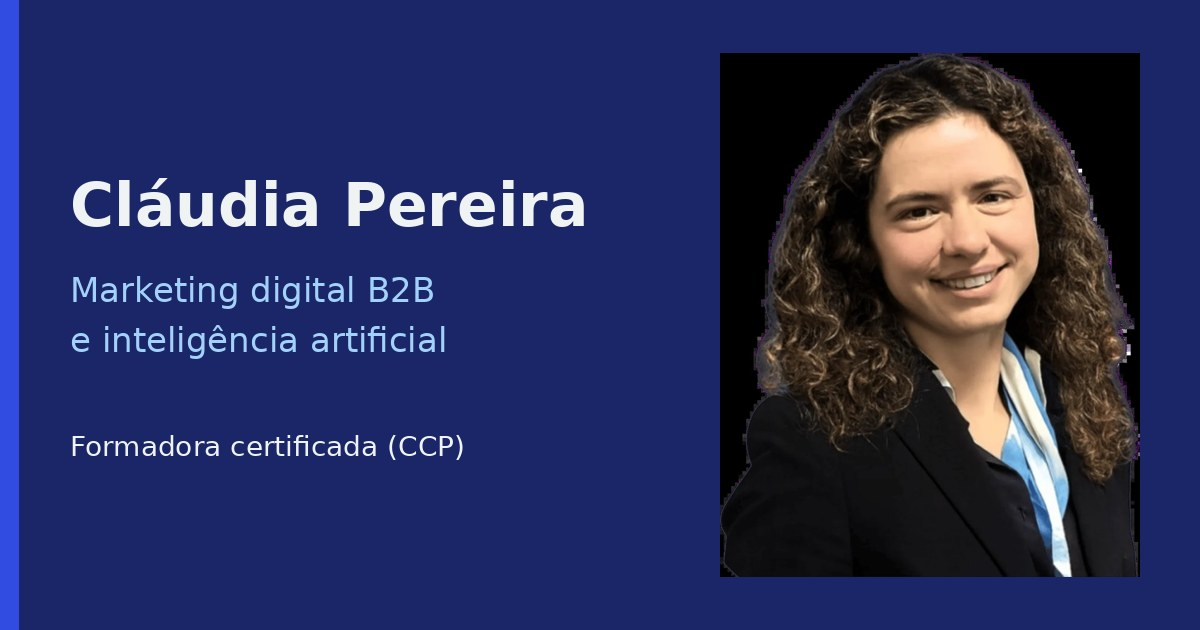
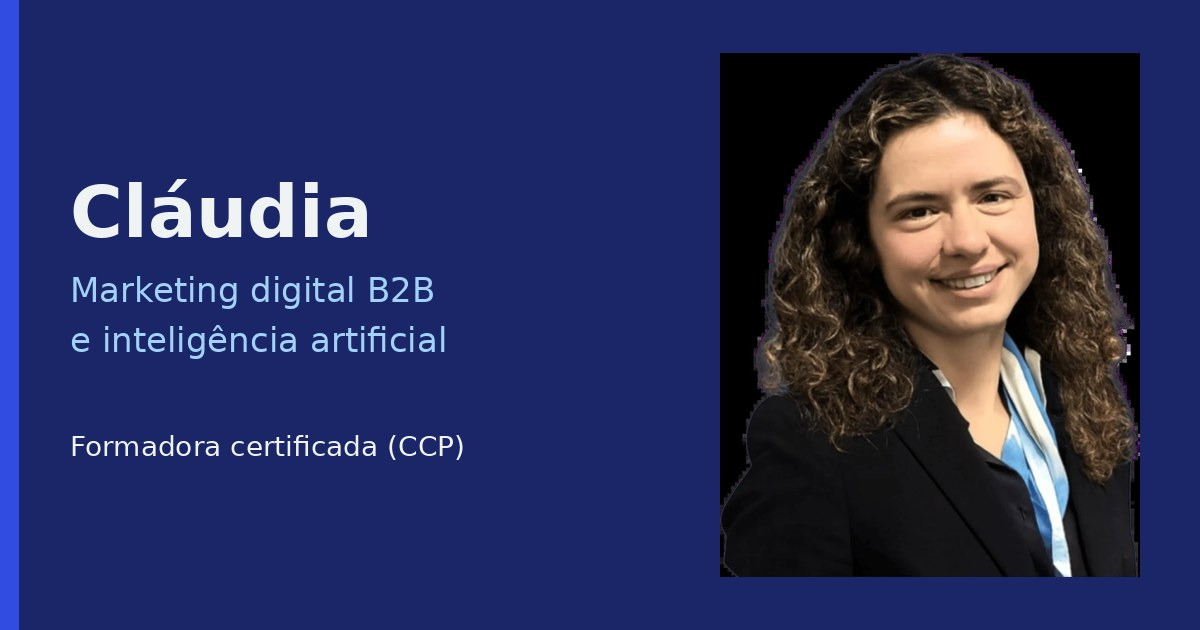
anonimizada

Changed region(s): [[0.0617, 0.2714, 0.4933, 0.3921]]

diff --git a/sobre-mim.html b/sobre-mim.html
@@ -3,21 +3,21 @@
 <head>
 <meta charset="utf-8">
 <meta name="viewport" content="width=device-width, initial-scale=1">
-<title>Sobre Cláudia Pereira</title>
-<meta name="description" content="Cláudia Pereira: do jornalismo ao marketing digital B2B e à formação. Mestre em Comunicação e Jornalismo, MBA em Marketing Digital e formadora certificada (CCP) em inteligência artificial aplicada ao marketing.">
+<title>Sobre Cláudia</title>
+<meta name="description" content="Cláudia: do jornalismo ao marketing digital B2B e à formação. Mestre em Comunicação e Jornalismo, MBA em Marketing Digital e formadora certificada (CCP) em inteligência artificial aplicada ao marketing.">
 <meta property="og:type" content="profile">
 <meta property="og:locale" content="pt_PT">
-<meta property="og:title" content="Sobre Cláudia Pereira">
+<meta property="og:title" content="Sobre Cláudia">
 <meta property="og:description" content="Do jornalismo ao marketing digital B2B e à formação em inteligência artificial.">
 <link rel="canonical" href="https://claudiathemarketeer.netlify.app/sobre-mim.html">
 <meta name="robots" content="index,follow,max-image-preview:large">
-<meta name="author" content="Cláudia Pereira">
+<meta name="author" content="Cláudia">
 <meta property="og:url" content="https://claudiathemarketeer.netlify.app/sobre-mim.html">
-<meta property="og:site_name" content="Cláudia Pereira">
+<meta property="og:site_name" content="Cláudia">
 <meta property="og:image" content="https://claudiathemarketeer.netlify.app/images/og-cover.jpg">
 <meta property="og:image:width" content="1200">
 <meta property="og:image:height" content="630">
-<meta property="og:image:alt" content="Cláudia Pereira, marketing digital B2B e IA">
+<meta property="og:image:alt" content="Cláudia, marketing digital B2B e IA">
 <meta name="twitter:card" content="summary_large_image">
 <meta name="theme-color" content="#1B2668">
 <link rel="alternate" type="text/plain" href="https://claudiathemarketeer.netlify.app/llms.txt" title="llms.txt">
@@ -26,13 +26,13 @@
 <link rel="preconnect" href="https://fonts.gstatic.com" crossorigin>
 <link href="https://fonts.googleapis.com/css2?family=Bricolage+Grotesque:opsz,wght@12..96,400;12..96,500;12..96,700;12..96,800&family=IBM+Plex+Mono:wght@400;500&display=swap" rel="stylesheet">
 <link rel="stylesheet" href="style.css">
-<script type="application/ld+json">{"@context": "https://schema.org", "@graph": [{"@type": "Person", "@id": "https://claudiathemarketeer.netlify.app/#claudia", "name": "Cláudia Pereira", "url": "https://claudiathemarketeer.netlify.app/", "image": "https://claudiathemarketeer.netlify.app/images/claudia-pereira.jpg", "jobTitle": "Especialista em marketing digital B2B e formadora certificada (CCP)", "worksFor": {"@type": "Organization", "name": "UE Systems"}, "address": {"@type": "PostalAddress", "addressLocality": "Ourém", "addressCountry": "PT"}, "knowsLanguage": ["pt", "en"], "description": "Especialista em marketing digital B2B, com foco em marca e performance, formadora de inteligência artificial aplicada ao marketing e colunista de opinião na revista Marketeer.", "sameAs": ["https://marketeer.sapo.pt/colunista/claudia-pereira/"], "knowsAbout": ["Marketing digital B2B", "Comunicação empresarial", "Inteligência artificial aplicada ao marketing"]}, {"@type": "ProfilePage", "@id": "https://claudiathemarketeer.netlify.app/sobre-mim.html#webpage", "url": "https://claudiathemarketeer.netlify.app/sobre-mim.html", "name": "Sobre Cláudia Pereira", "mainEntity": {"@id": "https://claudiathemarketeer.netlify.app/#claudia"}, "inLanguage": "pt-PT"}, {"@type": "BreadcrumbList", "itemListElement": [{"@type": "ListItem", "position": 1, "name": "Início", "item": "https://claudiathemarketeer.netlify.app/"}, {"@type": "ListItem", "position": 2, "name": "Sobre mim", "item": "https://claudiathemarketeer.netlify.app/sobre-mim.html"}]}]}</script>
+<script type="application/ld+json">{"@context": "https://schema.org", "@graph": [{"@type": "Person", "@id": "https://claudiathemarketeer.netlify.app/#claudia", "name": "Cláudia", "url": "https://claudiathemarketeer.netlify.app/", "image": "https://claudiathemarketeer.netlify.app/images/claudia-pereira.jpg", "jobTitle": "Especialista em marketing digital B2B e formadora certificada (CCP)", "worksFor": {"@type": "Organization", "name": "UE Systems"}, "address": {"@type": "PostalAddress", "addressLocality": "Ourém", "addressCountry": "PT"}, "knowsLanguage": ["pt", "en"], "description": "Especialista em marketing digital B2B, com foco em marca e performance, formadora de inteligência artificial aplicada ao marketing e colunista de opinião na revista Marketeer.", "sameAs": ["https://marketeer.sapo.pt/colunista/claudia-pereira/"], "knowsAbout": ["Marketing digital B2B", "Comunicação empresarial", "Inteligência artificial aplicada ao marketing"]}, {"@type": "ProfilePage", "@id": "https://claudiathemarketeer.netlify.app/sobre-mim.html#webpage", "url": "https://claudiathemarketeer.netlify.app/sobre-mim.html", "name": "Sobre Cláudia", "mainEntity": {"@id": "https://claudiathemarketeer.netlify.app/#claudia"}, "inLanguage": "pt-PT"}, {"@type": "BreadcrumbList", "itemListElement": [{"@type": "ListItem", "position": 1, "name": "Início", "item": "https://claudiathemarketeer.netlify.app/"}, {"@type": "ListItem", "position": 2, "name": "Sobre mim", "item": "https://claudiathemarketeer.netlify.app/sobre-mim.html"}]}]}</script>
 </head>
 <body>
 <div class="wrap">
   <header>
     <div class="masthead">
-      <a class="name" href="index.html">Cláudia Pereira</a>
+      <a class="name" href="index.html">Cláudia</a>
       <nav class="nav" aria-label="Secções">
         <a href="index.html#artigos">Artigos</a>
         <a href="index.html#formacao">Formação</a>
@@ -49,16 +49,15 @@
 
   <main id="topo">
     <div class="hero a-hero">
-      <h1>Quem é <mark>Cláudia Pereira</mark>?</h1>
-      <div class="hero-grid">
+      <h1>Quem é <mark>Cláudia</mark>?</h1>
+      <div class="hero-grid" style="grid-template-columns:minmax(0,1fr)">
         <div>
-          <p class="lead">Aprendi a escrever numa redação e a medir resultados em campanhas pagas. Entre os dois mundos, fiz marketing B2B para mercados que vão da Europa ao Sul da Ásia. Hoje levo essa bagagem para a sala de formação, onde a inteligência artificial aplicada ao marketing é o assunto do dia.</p>
+          <p class="lead">Aprendi a escrever numa redação e a medir resultados em campanhas pagas. Entre os dois mundos, fiz marketing B2B para mercados que vão da Europa ao Sul da Ásia.</p>
           <div class="actions">
             <a class="btn" href="index.html#contacto">Falar comigo</a>
             <a class="link" href="#percurso">Ver o percurso</a>
           </div>
         </div>
-        <figure class="portrait"><img src="images/claudia-pereira.webp" alt="Retrato de Cláudia Pereira" width="900" height="1123"></figure>
       </div>
     </div>
 
@@ -114,17 +113,16 @@
         <li>
           <div class="when"><span class="tag">Jornalismo</span><span class="date">2015 a 2019</span></div>
           <div class="what">
-          <p><strong>Licenciatura e mestrado em Comunicação e Jornalismo</strong> na Universidade de Coimbra.</p>
-          <p>Sou <strong>redatora no jornal Ramo d'Além</strong>, onde continuo a escrever. Sou também <strong>colunista de opinião na revista Marketeer</strong>, em temas como marketing, comunicação empresarial e inteligência artificial. Estagiei na <strong>Deutsche Welle</strong> e na <strong>Rádio Canção Nova</strong>, apresentei comunicações em congressos (inter)nacionais e, em paralelo, trabalhei como técnica de relações públicas na universidade.</p>
+          <p>Possuo uma <strong>licenciatura e mestrado em Comunicação e Jornalismo</strong>. Redijo artigos de opinião para jornais e revistas; estagiei na rádio e jornais; apresentei comunicações em congressos (inter)nacionais e, em paralelo, trabalhei como técnica de relações públicas na universidade.</p>
           </div>
         </li>
       </ol>
     </section>
 
     <div class="photostrip" role="group" aria-label="Fotografias">
-      <figure style="--r:1.499"><img src="images/media-relations.webp" alt="Cláudia Pereira a dar uma entrevista a uma equipa de televisão" width="1000" height="667" loading="lazy"></figure>
-      <figure style="--r:1.616"><img src="images/congresso.webp" alt="Cláudia Pereira a apresentar uma comunicação" width="1000" height="619" loading="lazy"></figure>
-      <figure style="--r:1.464"><img src="images/dw-estagio.webp" alt="Cláudia Pereira a entrevistar alguém numa redação" width="789" height="539" loading="lazy"></figure>
+      <figure style="--r:1.499"><img src="images/media-relations.webp" alt="Cláudia a dar uma entrevista a uma equipa de televisão" width="1000" height="667" loading="lazy"></figure>
+      <figure style="--r:1.616"><img src="images/congresso.webp" alt="Cláudia a apresentar uma comunicação" width="1000" height="619" loading="lazy"></figure>
+      <figure style="--r:1.464"><img src="images/dw-estagio.webp" alt="Cláudia a entrevistar alguém numa redação" width="789" height="539" loading="lazy"></figure>
     </div>
 
     <section id="carater">
@@ -132,7 +130,7 @@
         <span class="kicker">Olá! Hello!</span>
         <h2>O que o currículo não diz.</h2>
       </div>
-      <p class="lead-sm">Estudei e trabalhei em Portugal, nos Países Baixos, em Espanha, na Alemanha, em França e na Turquia. Em 2021, a bolsa Young Talent abriu-me as portas a um MBA em inglês em Marketing Digital, numa escola sediada em Espanha.</p>
+      <p class="lead-sm">Estudei e trabalhei em Portugal, nos Países Baixos, na Alemanha, em França e na Turquia. Em 2021, a bolsa Young Talent abriu-me as portas a um MBA em inglês em Marketing Digital, numa escola sediada em Espanha.</p>
       <div class="chapters">
         <article class="chapter">
           <span class="num">01</span>
@@ -241,7 +239,7 @@
       </div>
       <ul class="track" id="art-track" tabindex="0" aria-label="Artigos publicados">
         <li class="card">
-          <div class="cover photo"><span class="pill out">Colunista</span><img src="images/marketeer-colunista.jpg" alt="Cláudia Pereira, colunista de opinião na revista Marketeer" width="480" height="360" loading="lazy"></div>
+          <div class="cover photo"><span class="pill out">Colunista</span><img src="images/marketeer-colunista.jpg" alt="Cláudia, colunista de opinião na revista Marketeer" width="480" height="360" loading="lazy"></div>
           <b><a href="https://marketeer.sapo.pt/colunista/claudia-pereira/">Colunista de opinião na revista Marketeer</a></b>
           <span class="meta">Marketing, comunicação empresarial e inteligência artificial · Mais recente: <a href="https://marketeer.sapo.pt/a-primeira-black-friday-da-ia/">A primeira Black Friday da IA</a> (21 de novembro de 2026) · <a class="read" href="https://marketeer.sapo.pt/colunista/claudia-pereira/">Ver coluna</a></span>
         </li>
@@ -251,7 +249,7 @@
           <span class="meta">APPM, 27 de abril de 2026 · <a class="read" href="https://appm.pt/marketing-loop-publico-alvo/">Ler artigo</a></span>
         </li>
         <li class="card">
-          <div class="cover photo"><span class="pill out">Publicado</span><img src="images/she-shares.jpg" alt="Edição da newsletter She Shares com Cláudia Pereira" width="480" height="360"></div>
+          <div class="cover photo"><span class="pill out">Publicado</span><img src="images/she-shares.jpg" alt="Edição da newsletter She Shares com Cláudia" width="480" height="360"></div>
           <b><a href="she-shares-5.html">Ter propósito é o antídoto à velocidade</a></b>
           <span class="meta">She Shares, newsletter #5 enviada por email a 29 de setembro de 2026 · <a class="read" href="she-shares-5.html">Ler respostas</a></span>
         </li>
@@ -325,7 +323,7 @@
   <footer>
     <div class="foot-grid">
       <div>
-        <div class="foot-name">Cláudia Pereira</div>
+        <div class="foot-name">Cláudia</div>
         <p>Especialista em marketing e formadora certificada em marketing e inteligência artificial, com CCP.</p>
       </div>
       <nav aria-label="Rodapé">
@@ -343,12 +341,11 @@
         <h3>Contacto</h3>
         <ul>
           <li><a href="index.html#contacto">Formulário de contacto</a></li>
-          <li>Ourém, Fátima, Leiria e online</li>
         </ul>
       </div>
     </div>
     <div class="foot-base">
-      <span>© 2026 Cláudia Pereira</span>
+      <span>© 2026 Cláudia</span>
       <span>Marketing digital B2B e inteligência artificial</span>
     </div>
   </footer>

diff --git a/index.html b/index.html
@@ -3,21 +3,21 @@
 <head>
 <meta charset="utf-8">
 <meta name="viewport" content="width=device-width, initial-scale=1">
-<title>Cláudia Pereira, Marketing B2B e IA</title>
-<meta name="description" content="Cláudia Pereira, especialista em marketing digital B2B e formadora certificada (CCP). Formação em marketing B2B, inteligência artificial aplicada ao marketing e agentes de IA. Ourém, Fátima, Leiria e online.">
+<title>Cláudia, Marketing B2B e IA</title>
+<meta name="description" content="Cláudia, especialista em marketing digital B2B e formadora certificada (CCP). Formação em marketing B2B, inteligência artificial aplicada ao marketing e agentes de IA. Ourém, Fátima, Leiria e online.">
 <meta property="og:type" content="website">
 <meta property="og:locale" content="pt_PT">
-<meta property="og:title" content="Cláudia Pereira, Marketing B2B e IA">
+<meta property="og:title" content="Cláudia, Marketing B2B e IA">
 <meta property="og:description" content="Especialista em marketing digital B2B e formadora certificada. Formação em marketing B2B, inteligência artificial e agentes de IA.">
 <link rel="canonical" href="https://claudiathemarketeer.netlify.app/">
 <meta name="robots" content="index,follow,max-image-preview:large">
-<meta name="author" content="Cláudia Pereira">
+<meta name="author" content="Cláudia">
 <meta property="og:url" content="https://claudiathemarketeer.netlify.app/">
-<meta property="og:site_name" content="Cláudia Pereira">
+<meta property="og:site_name" content="Cláudia">
 <meta property="og:image" content="https://claudiathemarketeer.netlify.app/images/og-cover.jpg">
 <meta property="og:image:width" content="1200">
 <meta property="og:image:height" content="630">
-<meta property="og:image:alt" content="Cláudia Pereira, marketing digital B2B e IA">
+<meta property="og:image:alt" content="Cláudia, marketing digital B2B e IA">
 <meta name="twitter:card" content="summary_large_image">
 <meta name="theme-color" content="#1B2668">
 <link rel="alternate" type="text/plain" href="https://claudiathemarketeer.netlify.app/llms.txt" title="llms.txt">
@@ -26,13 +26,13 @@
 <link rel="preconnect" href="https://fonts.gstatic.com" crossorigin>
 <link href="https://fonts.googleapis.com/css2?family=Bricolage+Grotesque:opsz,wght@12..96,400;12..96,500;12..96,700;12..96,800&family=IBM+Plex+Mono:wght@400;500&display=swap" rel="stylesheet">
 <link rel="stylesheet" href="style.css">
-<script type="application/ld+json">{"@context": "https://schema.org", "@graph": [{"@type": "Person", "@id": "https://claudiathemarketeer.netlify.app/#claudia", "name": "Cláudia Pereira", "url": "https://claudiathemarketeer.netlify.app/", "image": "https://claudiathemarketeer.netlify.app/images/claudia-pereira.jpg", "jobTitle": "Especialista em marketing digital B2B e formadora certificada (CCP)", "worksFor": {"@type": "Organization", "name": "UE Systems"}, "address": {"@type": "PostalAddress", "addressLocality": "Ourém", "addressCountry": "PT"}, "knowsLanguage": ["pt", "en"], "description": "Especialista em marketing digital B2B, com foco em marca e performance, formadora de inteligência artificial aplicada ao marketing e colunista de opinião na revista Marketeer.", "sameAs": ["https://marketeer.sapo.pt/colunista/claudia-pereira/"], "knowsAbout": ["Marketing digital B2B", "Comunicação empresarial", "Inteligência artificial aplicada ao marketing"]}, {"@type": "WebSite", "@id": "https://claudiathemarketeer.netlify.app/#website", "url": "https://claudiathemarketeer.netlify.app/", "name": "Cláudia Pereira", "inLanguage": "pt-PT", "publisher": {"@id": "https://claudiathemarketeer.netlify.app/#claudia"}}, {"@type": "WebPage", "@id": "https://claudiathemarketeer.netlify.app/#webpage", "url": "https://claudiathemarketeer.netlify.app/", "name": "Cláudia Pereira, Marketing B2B e IA", "isPartOf": {"@id": "https://claudiathemarketeer.netlify.app/#website"}, "about": {"@id": "https://claudiathemarketeer.netlify.app/#claudia"}, "primaryImageOfPage": "https://claudiathemarketeer.netlify.app/images/og-cover.jpg", "inLanguage": "pt-PT"}, {"@type": "ProfessionalService", "name": "Formação em marketing digital B2B e IA", "provider": {"@id": "https://claudiathemarketeer.netlify.app/#claudia"}, "areaServed": ["Ourém", "Fátima", "Leiria", "Portugal", "Europa"], "serviceType": ["Formação em marketing digital B2B", "Formação em inteligência artificial aplicada ao marketing", "Formação em agentes de IA"]}, {"@type": "OpinionNewsArticle", "headline": "A primeira Black Friday da IA", "url": "https://marketeer.sapo.pt/a-primeira-black-friday-da-ia/", "datePublished": "2026-11-21", "inLanguage": "pt-PT", "author": {"@id": "https://claudiathemarketeer.netlify.app/#claudia"}, "publisher": {"@type": "Organization", "name": "Marketeer", "url": "https://marketeer.sapo.pt/"}}]}</script>
+<script type="application/ld+json">{"@context": "https://schema.org", "@graph": [{"@type": "Person", "@id": "https://claudiathemarketeer.netlify.app/#claudia", "name": "Cláudia", "url": "https://claudiathemarketeer.netlify.app/", "image": "https://claudiathemarketeer.netlify.app/images/claudia-pereira.jpg", "jobTitle": "Especialista em marketing digital B2B e formadora certificada (CCP)", "worksFor": {"@type": "Organization", "name": "UE Systems"}, "address": {"@type": "PostalAddress", "addressLocality": "Ourém", "addressCountry": "PT"}, "knowsLanguage": ["pt", "en"], "description": "Especialista em marketing digital B2B, com foco em marca e performance, formadora de inteligência artificial aplicada ao marketing e colunista de opinião na revista Marketeer.", "sameAs": ["https://marketeer.sapo.pt/colunista/claudia-pereira/"], "knowsAbout": ["Marketing digital B2B", "Comunicação empresarial", "Inteligência artificial aplicada ao marketing"]}, {"@type": "WebSite", "@id": "https://claudiathemarketeer.netlify.app/#website", "url": "https://claudiathemarketeer.netlify.app/", "name": "Cláudia", "inLanguage": "pt-PT", "publisher": {"@id": "https://claudiathemarketeer.netlify.app/#claudia"}}, {"@type": "WebPage", "@id": "https://claudiathemarketeer.netlify.app/#webpage", "url": "https://claudiathemarketeer.netlify.app/", "name": "Cláudia, Marketing B2B e IA", "isPartOf": {"@id": "https://claudiathemarketeer.netlify.app/#website"}, "about": {"@id": "https://claudiathemarketeer.netlify.app/#claudia"}, "primaryImageOfPage": "https://claudiathemarketeer.netlify.app/images/og-cover.jpg", "inLanguage": "pt-PT"}, {"@type": "ProfessionalService", "name": "Formação em marketing digital B2B e IA", "provider": {"@id": "https://claudiathemarketeer.netlify.app/#claudia"}, "areaServed": ["Ourém", "Fátima", "Leiria", "Portugal", "Europa"], "serviceType": ["Formação em marketing digital B2B", "Formação em inteligência artificial aplicada ao marketing", "Formação em agentes de IA"]}, {"@type": "OpinionNewsArticle", "headline": "A primeira Black Friday da IA", "url": "https://marketeer.sapo.pt/a-primeira-black-friday-da-ia/", "datePublished": "2026-11-21", "inLanguage": "pt-PT", "author": {"@id": "https://claudiathemarketeer.netlify.app/#claudia"}, "publisher": {"@type": "Organization", "name": "Marketeer", "url": "https://marketeer.sapo.pt/"}}]}</script>
 </head>
 <body>
 <div class="wrap">
   <header>
     <div class="masthead">
-      <a class="name" href="#topo">Cláudia Pereira</a>
+      <a class="name" href="#topo">Cláudia</a>
       <nav class="nav" aria-label="Secções">
         <a href="#artigos">Artigos</a>
         <a href="#formacao">Formação</a>
@@ -59,7 +59,6 @@
           </div>
         </div>
         <div class="side">
-        <figure class="portrait"><img src="images/claudia-pereira.webp" alt="Retrato de Cláudia Pereira" width="900" height="1123"></figure>
         <dl class="ficha">
           <div><dt>Experiência</dt><dd>Mais de 8 anos em marketing digital B2B</dd></div>
           <div><dt>Certificação</dt><dd>Formadora com CCP (IEFP)</dd></div>
@@ -80,7 +79,7 @@
       </div>
       <ul class="track" id="art-track" tabindex="0" aria-label="Artigos publicados">
         <li class="card">
-          <div class="cover photo"><span class="pill out">Colunista</span><img src="images/marketeer-colunista.jpg" alt="Cláudia Pereira, colunista de opinião na revista Marketeer" width="480" height="360" loading="lazy"></div>
+          <div class="cover photo"><span class="pill out">Colunista</span><img src="images/marketeer-colunista.jpg" alt="Cláudia, colunista de opinião na revista Marketeer" width="480" height="360" loading="lazy"></div>
           <b><a href="https://marketeer.sapo.pt/colunista/claudia-pereira/">Colunista de opinião na revista Marketeer</a></b>
           <span class="meta">Marketing, comunicação empresarial e inteligência artificial · Mais recente: <a href="https://marketeer.sapo.pt/a-primeira-black-friday-da-ia/">A primeira Black Friday da IA</a> (21 de novembro de 2026) · <a class="read" href="https://marketeer.sapo.pt/colunista/claudia-pereira/">Ver coluna</a></span>
         </li>
@@ -90,7 +89,7 @@
           <span class="meta">APPM, 27 de abril de 2026 · <a class="read" href="https://appm.pt/marketing-loop-publico-alvo/">Ler artigo</a></span>
         </li>
         <li class="card">
-          <div class="cover photo"><span class="pill out">Publicado</span><img src="images/she-shares.jpg" alt="Edição da newsletter She Shares com Cláudia Pereira" width="480" height="360"></div>
+          <div class="cover photo"><span class="pill out">Publicado</span><img src="images/she-shares.jpg" alt="Edição da newsletter She Shares com Cláudia" width="480" height="360"></div>
           <b><a href="she-shares-5.html">Ter propósito é o antídoto à velocidade</a></b>
           <span class="meta">She Shares, newsletter #5 enviada por email a 29 de setembro de 2026 · <a class="read" href="she-shares-5.html">Ler respostas</a></span>
         </li>
@@ -123,11 +122,11 @@
     <section id="sobre">
       <div class="sec-head">
         <span class="kicker">Sobre mim</span>
-        <h2>Quem é a Cláudia Pereira?</h2>
+        <h2>Quem é a Cláudia?</h2>
       </div>
       <div class="about">
         <div class="about-text">
-          <p>Mestre em Comunicação e Jornalismo pela Universidade de Coimbra, com um MBA em Marketing Digital em Barcelona e mais de oito anos de marketing B2B. Utilizo inteligência artificial todos os dias no meu trabalho e, como formadora certificada, ensino aquilo que pratico.</p>
+          <p>Comecei por aprender a contar histórias no jornalismo e foi o marketing que me fez perceber que, se não medirmos o seu impacto, de nada vale. Utilizo inteligência artificial todos os dias no meu trabalho e, como formadora certificada, ensino aquilo que pratico.</p>
           <ul class="chips" aria-label="Ferramentas de IA">
             <li>ChatGPT</li><li>Claude</li><li>Gemini</li><li>Copilot</li><li>NotebookLM</li><li>Perplexity</li>
           </ul>
@@ -207,7 +206,7 @@
   <footer>
     <div class="foot-grid">
       <div>
-        <div class="foot-name">Cláudia Pereira</div>
+        <div class="foot-name">Cláudia</div>
         <p>Especialista em marketing e formadora certificada em marketing e inteligência artificial, com CCP.</p>
       </div>
       <nav aria-label="Rodapé">
@@ -225,12 +224,11 @@
         <h3>Contacto</h3>
         <ul>
           <li><a href="#contacto">Formulário de contacto</a></li>
-          <li>Ourém, Fátima, Leiria e online</li>
         </ul>
       </div>
     </div>
     <div class="foot-base">
-      <span>© 2026 Cláudia Pereira</span>
+      <span>© 2026 Cláudia</span>
       <span>Marketing digital B2B e inteligência artificial</span>
     </div>
   </footer>

diff --git a/she-shares-5.html b/she-shares-5.html
@@ -11,13 +11,13 @@
 <meta property="og:description" content="As minhas respostas na newsletter She Shares #5, da comunidade She Leads.">
 <link rel="canonical" href="https://claudiathemarketeer.netlify.app/she-shares-5.html">
 <meta name="robots" content="index,follow,max-image-preview:large">
-<meta name="author" content="Cláudia Pereira">
+<meta name="author" content="Cláudia">
 <meta property="og:url" content="https://claudiathemarketeer.netlify.app/she-shares-5.html">
-<meta property="og:site_name" content="Cláudia Pereira">
+<meta property="og:site_name" content="Cláudia">
 <meta property="og:image" content="https://claudiathemarketeer.netlify.app/images/og-cover.jpg">
 <meta property="og:image:width" content="1200">
 <meta property="og:image:height" content="630">
-<meta property="og:image:alt" content="Cláudia Pereira, marketing digital B2B e IA">
+<meta property="og:image:alt" content="Cláudia, marketing digital B2B e IA">
 <meta name="twitter:card" content="summary_large_image">
 <meta name="theme-color" content="#1B2668">
 <link rel="alternate" type="text/plain" href="https://claudiathemarketeer.netlify.app/llms.txt" title="llms.txt">
@@ -26,13 +26,13 @@
 <link rel="preconnect" href="https://fonts.gstatic.com" crossorigin>
 <link href="https://fonts.googleapis.com/css2?family=Bricolage+Grotesque:opsz,wght@12..96,400;12..96,500;12..96,700;12..96,800&family=IBM+Plex+Mono:wght@400;500&display=swap" rel="stylesheet">
 <link rel="stylesheet" href="style.css">
-<script type="application/ld+json">{"@context": "https://schema.org", "@graph": [{"@type": "Person", "@id": "https://claudiathemarketeer.netlify.app/#claudia", "name": "Cláudia Pereira", "url": "https://claudiathemarketeer.netlify.app/"}, {"@type": "WebPage", "@id": "https://claudiathemarketeer.netlify.app/she-shares-5.html#webpage", "url": "https://claudiathemarketeer.netlify.app/she-shares-5.html", "name": "She Shares #5: ter propósito é o antídoto à velocidade", "inLanguage": "pt-PT", "about": {"@id": "https://claudiathemarketeer.netlify.app/#claudia"}, "datePublished": "2026-09-29", "isPartOf": {"@type": "WebSite", "url": "https://claudiathemarketeer.netlify.app/", "name": "Cláudia Pereira"}}, {"@type": "BreadcrumbList", "itemListElement": [{"@type": "ListItem", "position": 1, "name": "Início", "item": "https://claudiathemarketeer.netlify.app/"}, {"@type": "ListItem", "position": 2, "name": "Artigos", "item": "https://claudiathemarketeer.netlify.app/#artigos"}, {"@type": "ListItem", "position": 3, "name": "She Shares #5", "item": "https://claudiathemarketeer.netlify.app/she-shares-5.html"}]}]}</script>
+<script type="application/ld+json">{"@context": "https://schema.org", "@graph": [{"@type": "Person", "@id": "https://claudiathemarketeer.netlify.app/#claudia", "name": "Cláudia", "url": "https://claudiathemarketeer.netlify.app/"}, {"@type": "WebPage", "@id": "https://claudiathemarketeer.netlify.app/she-shares-5.html#webpage", "url": "https://claudiathemarketeer.netlify.app/she-shares-5.html", "name": "She Shares #5: ter propósito é o antídoto à velocidade", "inLanguage": "pt-PT", "about": {"@id": "https://claudiathemarketeer.netlify.app/#claudia"}, "datePublished": "2026-09-29", "isPartOf": {"@type": "WebSite", "url": "https://claudiathemarketeer.netlify.app/", "name": "Cláudia"}}, {"@type": "BreadcrumbList", "itemListElement": [{"@type": "ListItem", "position": 1, "name": "Início", "item": "https://claudiathemarketeer.netlify.app/"}, {"@type": "ListItem", "position": 2, "name": "Artigos", "item": "https://claudiathemarketeer.netlify.app/#artigos"}, {"@type": "ListItem", "position": 3, "name": "She Shares #5", "item": "https://claudiathemarketeer.netlify.app/she-shares-5.html"}]}]}</script>
 </head>
 <body>
 <div class="wrap">
   <header>
     <div class="masthead">
-      <a class="name" href="index.html">Cláudia Pereira</a>
+      <a class="name" href="index.html">Cláudia</a>
       <nav class="nav" aria-label="Secções">
         <a href="index.html#artigos">Artigos</a>
         <a href="index.html#formacao">Formação</a>
@@ -53,7 +53,7 @@
       <h1>Ter propósito é o <mark>antídoto à velocidade</mark></h1>
       <p class="lead" style="margin:2.5rem 0 3rem">Fui a convidada da rubrica She Shares, na edição n.º 5 da newsletter da comunidade She Leads, de Joana Meireles (JMR Digital), enviada por email a 29 de setembro de 2026. Aqui ficam as minhas respostas.</p>
       <h2>O insight</h2>
-      <p>Uma das oportunidades mais desafiantes que aumentou com o advento da AI no marketing é a velocidade ainda maior com que temos de nos adaptar às mudanças e fazer com que haja uma curva de aprendizagem rápida dentro das equipas, não só ao nível da adoção de novas ferramentas, mas também no colmatar dos riscos e prejuízos que estas podem acarretar quando indevidamente utilizadas. "A única constante é a mudança" resume bem a forma como temos de trabalhar hoje. A isto junta-se ainda a complexidade de a UE Systems ser uma empresa B2B global, com diferentes mercados, idiomas e realidades regionais. O desafio constante é encontrar o equilíbrio entre uma estratégia global consistente e a capacidade de torná-la verdadeiramente relevante para cada mercado.</p>
+      <p>Uma das oportunidades mais desafiantes que aumentou com o advento da AI no marketing é a velocidade ainda maior com que temos de nos adaptar às mudanças e fazer com que haja uma curva de aprendizagem rápida dentro das equipas, não só ao nível da adoção de novas ferramentas, mas também no colmatar dos riscos e prejuízos que estas podem acarretar quando indevidamente utilizadas. "A única constante é a mudança" resume bem a forma como temos de trabalhar hoje. A isto junta-se ainda a complexidade de estar numa empresa global, com diferentes mercados, idiomas e realidades regionais. O desafio constante é encontrar o equilíbrio entre uma estratégia global consistente e a capacidade de torná-la verdadeiramente relevante para cada mercado.</p>
       <h2>A ferramenta</h2>
       <p>O HubSpot tem sido, sem dúvida, uma das ferramentas que mais têm feito parte do meu dia a dia para a comunicação e marketing. Muitas vezes é visto simplesmente como um CRM, mas essa ideia está ultrapassada. O HubSpot reúne num só lugar dados de clientes, redes sociais, landing pages, email marketing, paid media, segmentação, workflows e até ferramentas de gestão de projetos, permitindo ter uma visão 360º das atividades. Com as novas funcionalidades de AI, com simples prompts conseguimos reunir informação de múltiplas equipas e projetos, podendo garantir tempo para o que realmente move a agulha.</p>
       <h2>A recomendação</h2>
@@ -74,7 +74,7 @@
   <footer>
     <div class="foot-grid">
       <div>
-        <div class="foot-name">Cláudia Pereira</div>
+        <div class="foot-name">Cláudia</div>
         <p>Especialista em marketing e formadora certificada em marketing e inteligência artificial, com CCP.</p>
       </div>
       <nav aria-label="Rodapé">
@@ -92,12 +92,11 @@
         <h3>Contacto</h3>
         <ul>
           <li><a href="index.html#contacto">Formulário de contacto</a></li>
-          <li>Ourém, Fátima, Leiria e online</li>
         </ul>
       </div>
     </div>
     <div class="foot-base">
-      <span>© 2026 Cláudia Pereira</span>
+      <span>© 2026 Cláudia</span>
       <span>Marketing digital B2B e inteligência artificial</span>
     </div>
   </footer>
